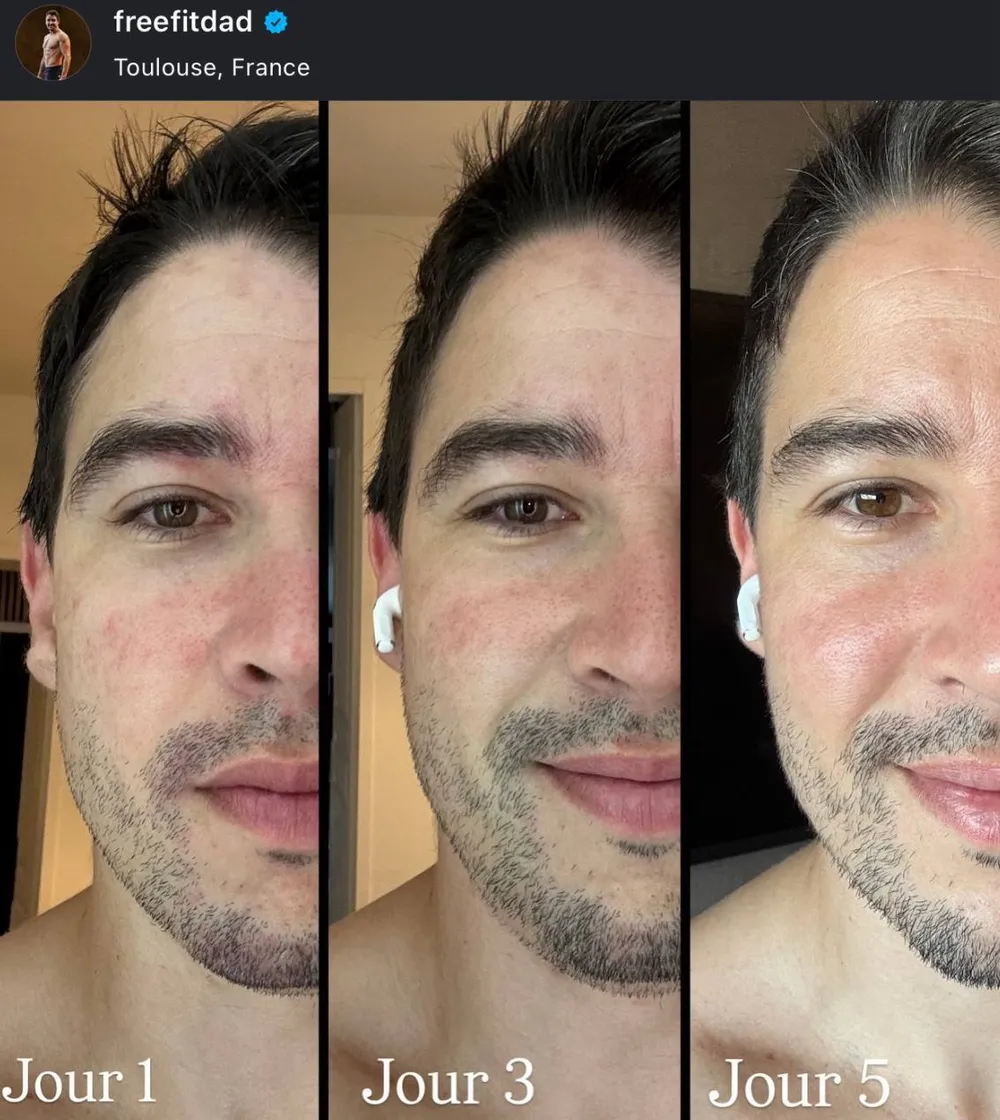
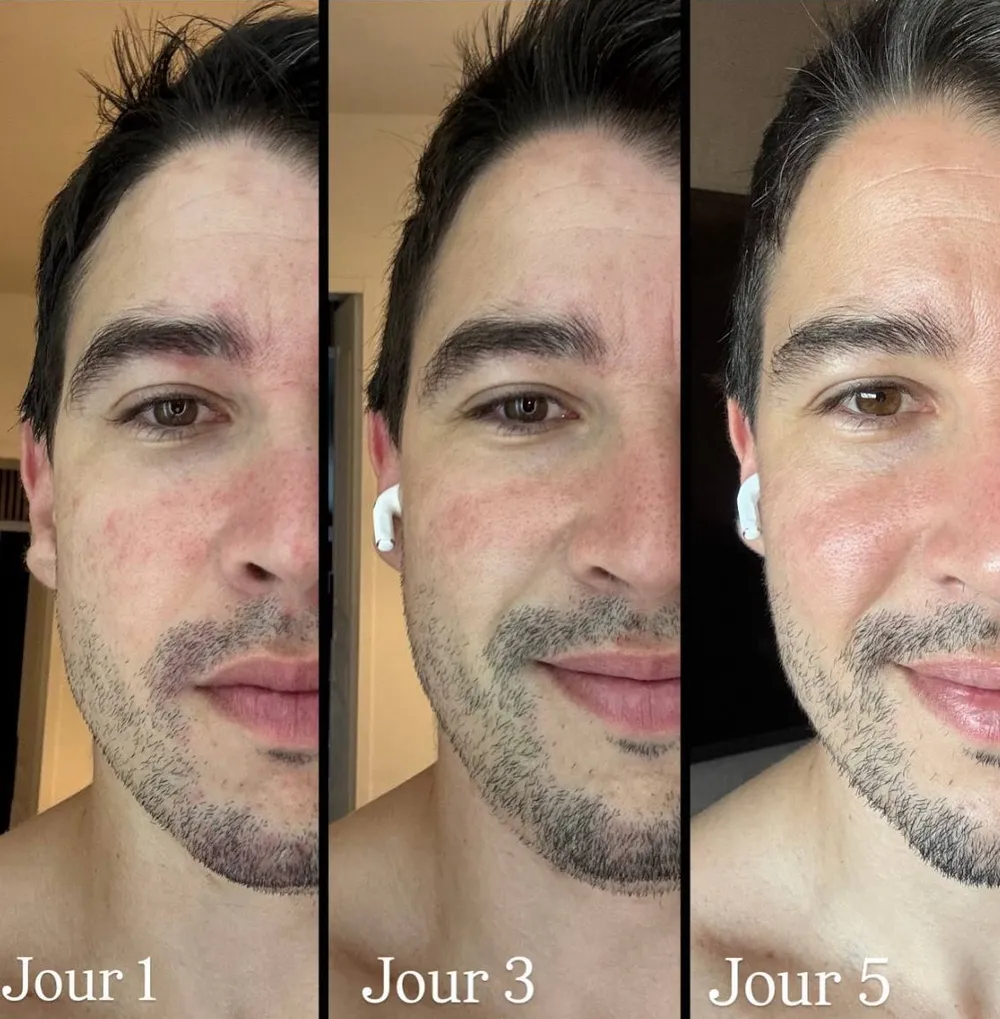
fix(boutique): recadre le visuel de Guillaume (en-tête Instagram) + durée juste
- L'en-tête Instagram (@freefitdad · Toulouse, bande sombre de 115 px) était
  visible en haut du visuel. Limite détectée par analyse de luminance ligne à
  ligne, recadrage refait depuis le JPEG d'origine pour éviter une double
  compression. Les 3 panneaux et les libellés « Jour 1/3/5 » sont intacts.
- ⚠ Durée corrigée : « 21 jours » → « 5 jours ». Le visuel porte « Jour 1 /
  Jour 3 / Jour 5 » incrusté ; la pastille annonçait 21 jours juste à côté, la
  contradiction se voyait à l'œil nu et abîmait la crédibilité de la section.

diff --git a/src/data/beforeAfter.ts b/src/data/beforeAfter.ts
@@ -120,9 +120,12 @@ export const BEFORE_AFTER: BeforeAfterEntry[] = [
     fav: "La nouvelle gamme",
   },
   {
+    // ⚠ « 5 jours » et non 21 : le visuel porte « Jour 1 / Jour 3 / Jour 5 »
+    // incrusté. Afficher 21 jours à côté créerait une contradiction visible.
+    // Visuel recadré pour retirer l'en-tête Instagram (@freefitdad, Toulouse).
     slug: "guillaume",
     name: "Guillaume",
-    when: "21 jours",
+    when: "5 jours",
     concern: "Routine masculine",
     fav: "La nouvelle gamme",
   },
